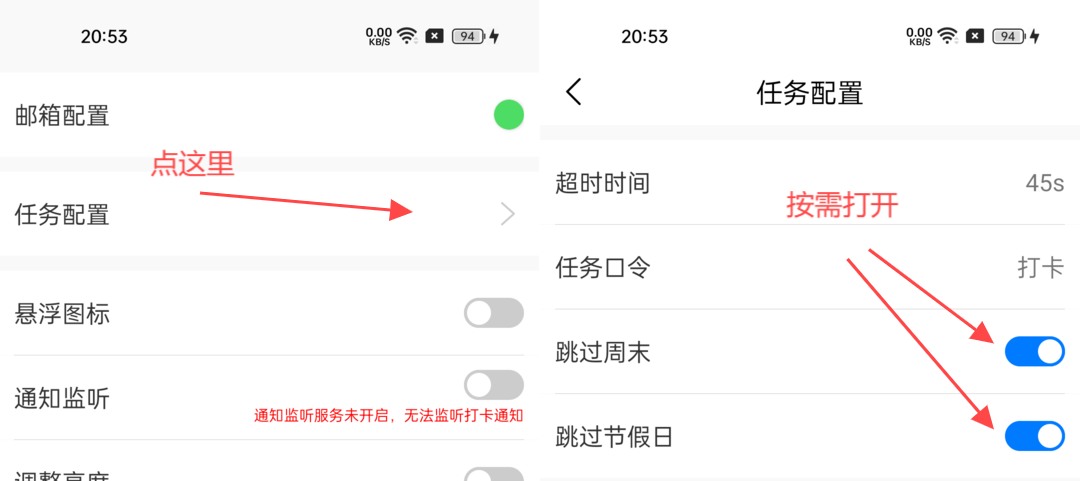
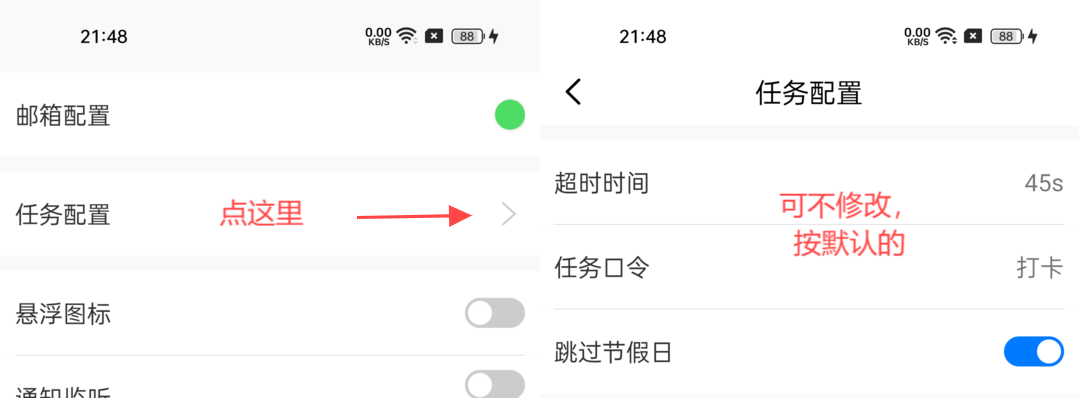
docs(README): 更新使用说明和截图
- 调整说明文档中的字体和格式
- 更新设置邮箱截图
- 移除多余的设置邮箱步骤说明

diff --git a/README.md b/README.md
@@ -12,15 +12,15 @@ Kotlin+Java混编实现的钉钉打卡小工具，解决您上班途中迟到问
 
 1. 对目前功能不满意或者想加功能的，有能力的可以自行下载源码修改，也可以在群里反馈了等我发布新版本。
 2. 另外，手机不建议灭屏，因为低电量关机了可能都不知道，而且灭屏状态下，通知监听服务可能会被系统干掉，也会影响打卡。
-   所以，打开应用内部调节亮度开关即可，会自动调为最低亮度，再或者在主界面按音量减小键，会开启伪装灭屏模式。
-3. **最后，在使用本软件之前，最好先自行测试几天，稳定确认没问题之后再使用，谢谢理解！**
+   所以，打开应用内部调节亮度开关即可，会自动调为最低亮度，再或者在主界面按音量`减小键`，会开启伪装灭屏模式。
+3. `最后，在使用本软件之前，最好先自行测试几天，稳定确认没问题之后再使用，谢谢理解！`
 
 # 注意！！！
 
 #### [DT_20241224_2.0.0.apk，适合Android 6+系统](apk/daily/release/DT_20241224_2.0.0.apk)
 
 1. 2.0全新版本！支持每日循环打卡，每日每次打卡时间会自动在设定的时间点5分钟内随机选择一个时间点打卡。
-   **设定时间点的时候需要注意下，别打打卡时间卡太死，不然，随机时间点可能会超过你上下班时间。**
+   `设定时间点的时候需要注意下，别打打卡时间卡太死，不然，随机时间点可能会超过你上下班时间。`
 2. 全新的界面，优化了1.+版本遗留的问题，解决1.+版本有时会出现多个倒计时并多次出发邮件的问题。
 3. 解决悬浮窗未开启情况下直接打卡会闪退的问题。
 4. 添加邮箱测试功能，并对邮箱地址添加正则校验。
@@ -56,8 +56,7 @@ Kotlin+Java混编实现的钉钉打卡小工具，解决您上班途中迟到问
 # 使用步骤（**钉钉设打卡置必须要极速打卡**）：
 
 1、先设置好自己打卡结果接收邮件的邮箱，国内邮箱应该都可以，国外的邮箱，请自行测试，至于”邮件标题“和”超时时间（跳转到钉钉之后停留在钉钉界面上的时间）“以及”任务口令“，那就随意了，可自行调整也可按默认的来。如下图：</br>
-![设置邮箱_1](screenshot/设置邮箱_1.png)
-![设置邮箱_2](screenshot/设置邮箱_2.png)
+![设置邮箱_1](screenshot/设置邮箱配置_1.png)
 
 2、在“其他设置”点击“任务配置”项。如下图：</br>
 ![设置任务配置_1](screenshot/设置任务配置_1.png)
